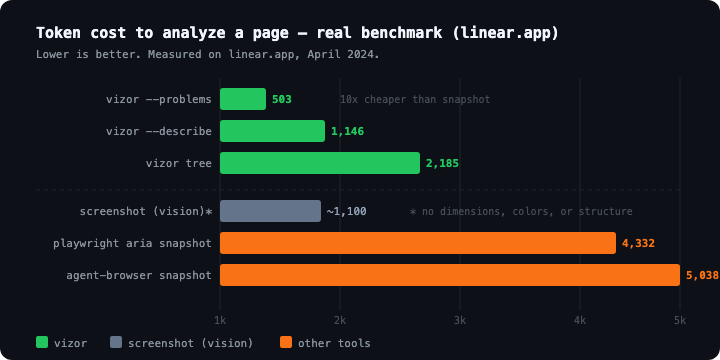
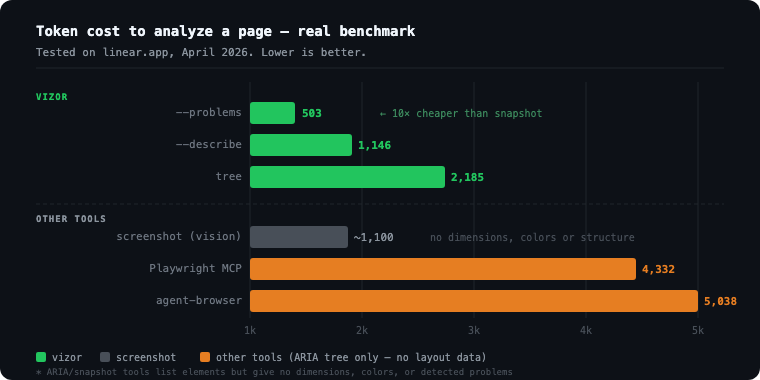
feat: --headed/--slow-mo; fix Playwright MCP description; fix year 2026; better chart
- vizor.js: --headed flag (headless:false), --slow-mo N
- README: Playwright MCP has CLI (npx @playwright/mcp), headed by default,
  --vision mode documented; vizor headed row updated to checkmark
- Fix benchmark year 2024 -> 2026
- Chart: cleaner sections (VIZOR / OTHER TOOLS), removed XML comments that
  broke Chromium XML parser, April 2026 date

diff --git a/vizor.js b/vizor.js
@@ -93,6 +93,8 @@ function parseArgs(args) {
     aria: false,
     actions: [],
     actionsLog: false,
+    headed: false,
+    slowMo: 0,
     net: { capture: false, stubs: [], blocks: [] },
     screenshotQuality: null,
     screenshotWidth: null,
@@ -210,6 +212,10 @@ function parseArgs(args) {
       opts.net.blocks.push(args[++i]);
     } else if (a === '--actions-log') {
       opts.actionsLog = true;
+    } else if (a === '--headed') {
+      opts.headed = true;
+    } else if (a === '--slow-mo' && args[i + 1]) {
+      opts.slowMo = parseInt(args[++i], 10);
     } else if (a === '--cdp' && args[i + 1]) {
       opts.cdp = parseInt(args[++i], 10);
     } else if (a === '--save' && args[i + 1]) {
@@ -353,7 +359,7 @@ async function run() {
         { width: 1024, height: 768 },
         { width: 1440, height: 900 },
       ];
-      browser = await chromium.launch({ headless: true });
+      browser = await chromium.launch({ headless: !opts.headed, slowMo: opts.slowMo || 0 });
       const results = [];
       for (const vp of viewports) {
         try {
@@ -379,7 +385,7 @@ async function run() {
       if (opts.cdp) {
         browser = await chromium.connectOverCDP(`http://127.0.0.1:${opts.cdp}`);
       } else {
-        browser = await chromium.launch({ headless: true });
+        browser = await chromium.launch({ headless: !opts.headed, slowMo: opts.slowMo || 0 });
       }
 
       const outputs = [];
@@ -430,7 +436,7 @@ async function run() {
         page = context.pages()[0] || await context.newPage();
         await page.setViewportSize(opts.viewport);
       } else {
-        browser = await chromium.launch({ headless: true });
+        browser = await chromium.launch({ headless: !opts.headed, slowMo: opts.slowMo || 0 });
         context = await browser.newContext({ viewport: opts.viewport });
         page = await context.newPage();
       }

diff --git a/README.md b/README.md
@@ -295,6 +295,8 @@ screenshot-diff /tmp/baseline.png
 --depth N                 Tree depth (default: 8)
 --wait N                  Initial render wait in ms (default: 2000)
 --no-warnings             Hide warning markers in tree
+--headed                  Show browser window (headless by default)
+--slow-mo N               Slow down actions by N ms (useful with --headed)
 --cdp PORT                Connect to existing browser via CDP
 --save FILE               Save analysis output to file
 --actions-log             Always print action log (default: only on failure)
@@ -327,27 +329,36 @@ There are three popular browser tools used by AI agents today. Here's how they c
 | [Playwright MCP](https://github.com/microsoft/playwright-mcp) ARIA | text | 4,332 | ❌ | ❌ | ❌ |
 | [agent-browser](https://agent-browser.dev) snapshot | text | 5,038 | ❌ | ❌ | ❌ |
 
+> Benchmark measured April 2026.
+
 ---
 
 ## Tool-by-Tool Breakdown
 
 ### [Playwright MCP](https://github.com/microsoft/playwright-mcp) — by Microsoft
 
-MCP server that connects Claude/AI assistants to a browser. Best-in-class for natural-language-driven automation inside an AI conversation.
+MCP server + CLI (`npx @playwright/mcp`) that connects Claude/AI assistants to a browser. Has two modes: ARIA-based (default) and `--vision` (screenshot-based).
+
+```bash
+npx @playwright/mcp --headed         # headed by default
+npx @playwright/mcp --vision         # screenshot-based mode
+npx @playwright/mcp --headless       # headless
+```
 
 **Strengths:**
-- Deep IDE/Claude integration as MCP server
+- Native MCP integration with Claude — best for conversational browser control
+- Headed by default — user sees every click in real time
+- `--vision` mode: AI navigates by screenshots instead of ARIA tree
+- Video, traces, PDF, geo emulation, offline mode
 - Full Playwright API surface
-- Headed mode (user sees the browser)
-- Video, traces, network inspection
 
 **Limitations:**
-- Outputs ARIA accessibility tree — no layout dimensions, no colors
-- No built-in problem detection
-- Not designed as a standalone CLI
-- Screenshot = PNG only, no optimization
+- ARIA mode: no layout dimensions, no colors, no problem detection
+- Vision mode: high token cost, no structured data
+- Not optimized for automated batch runs
+- Screenshots PNG only, no WebP/JPEG optimization
 
-**Best for:** Natural-language browser control inside Claude, pair-review sessions where the user watches the browser.
+**Best for:** Pair-review sessions inside Claude where the user watches the browser. Vision mode for sites where ARIA is broken.
 
 ---
 
@@ -413,7 +424,7 @@ Polished CLI designed for AI agents. Rich command set, good ergonomics.
 | **Multi-viewport sweep** | ✅ | ❌ | ❌ |
 | **WebP/JPEG optimized screenshots** | ✅ | ❌ | ❌ |
 | Pixel regression | ✅ | ❌ | ✅ |
-| Headed mode (user sees browser) | ❌ | ✅ | ✅ |
+| Headed mode (user sees browser) | ✅ `--headed` | ✅ default | ✅ |
 | Video recording | ❌ | ✅ | ✅ |
 | PDF export | ❌ | ✅ | ✅ |
 | Geo / offline emulation | ❌ | ✅ | ✅ |
